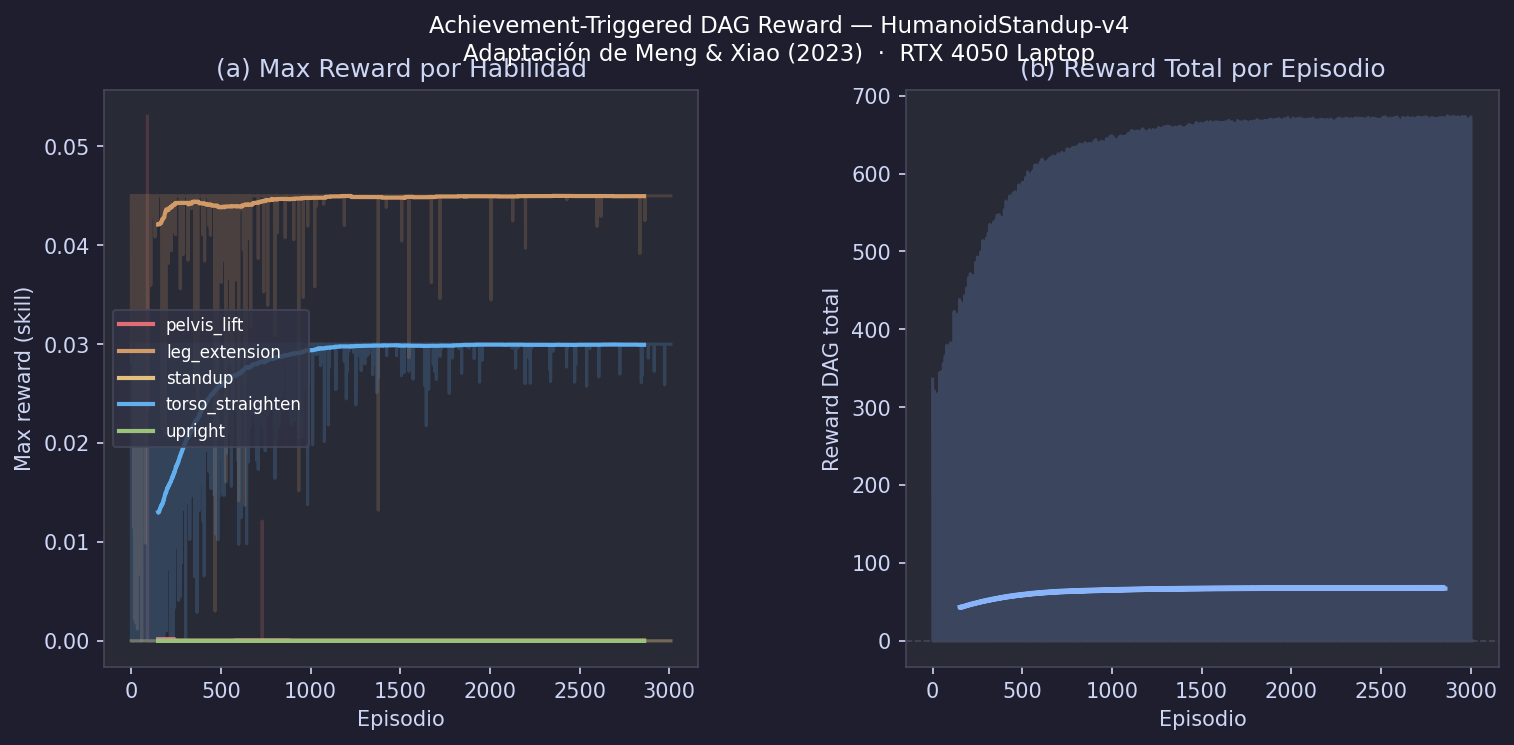
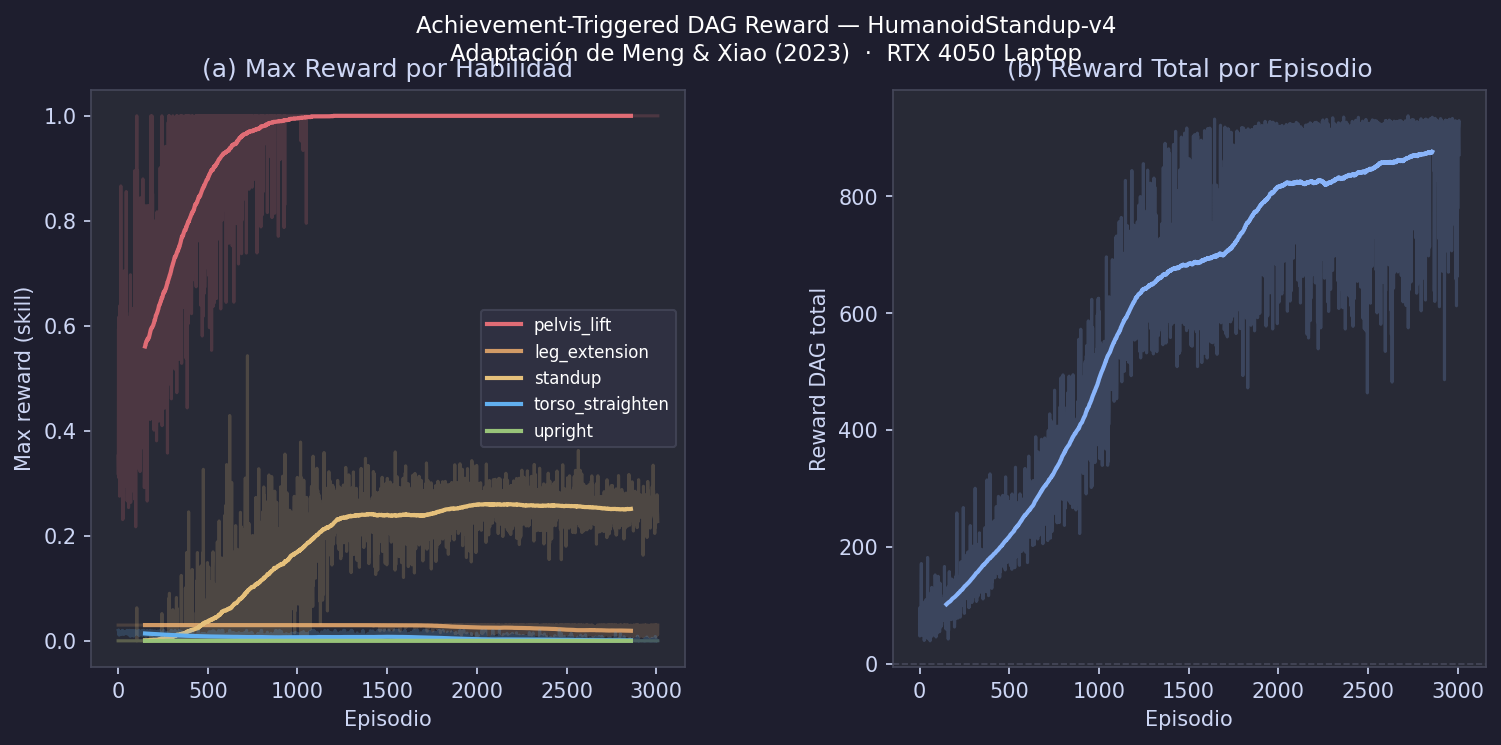
Fix causa raiz: reward de altura continuo (v3) -- el robot por fin se levanta
Verificacion directa midiendo z del modelo v2 revelo que la causa del
estancamiento NO era la topologia del DAG ni la representacion ego-centric,
sino el reward de altura: clip(z-0.30,...) daba gradiente CERO en todo el
rango donde el robot vive (z en [0.076, 0.152], 0% de steps con z>0.30). Las
tres senales de altura estaban muertas, asi que el agente solo podia farmear
los angulos de articulacion.

Fix:
- Reward de altura: umbral -> rampa continua con gradiente no-cero desde el
  suelo (pelvis_lift 0.10->0.30, standup 0.30->0.80, upright 0.80->1.30).
- Passing scores recalibrados al rango [0,1].
- Hiperparametros PPO: n_epochs 10->5, batch_size 256->512, ent_coef
  0.005->0, +target_kl=0.03 (arregla approx_kl 0.4->0.035, clip_fraction
  0.7->0.21, std 4.4->0.94).
- matplotlib backend Agg para que plt.show() no cuelgue el proceso al final.
- Nuevo modo --mode video que graba mp4 del modelo entrenado (evidencia).

Resultados v3 (3M steps, 10 envs): ep_rew_mean ~67 -> ~850, z max 0.152 ->
0.450, 42% del tiempo despegado del suelo, standup despega de 0 a ~0.25. El
robot pasa de retorcerse acostado a incorporarse activamente a media altura
(no llega a pararse). Evidencia: demo_v3_height.mp4 vs
demo_multipath_egocentric.mp4.

Artefactos v2 preservados (_v2_heightblind) para comparacion antes/despues.

diff --git a/dag_reward_humanoid.py b/dag_reward_humanoid.py
@@ -22,6 +22,11 @@ Instalación:
 
 import os
 import numpy as np
+import matplotlib
+matplotlib.use('Agg')   # backend no-interactivo: plt.show() no bloquea ni
+                        # abre ventana (evita que el proceso se cuelgue al
+                        # final del entrenamiento). results.png se guarda
+                        # igual con savefig; ábrelo como imagen.
 import matplotlib.pyplot as plt
 import matplotlib.gridspec as gridspec
 import gymnasium as gym
@@ -65,11 +70,14 @@ class AchievementRewardWrapper(Wrapper):
     """
 
     SKILL_NAMES = ['pelvis_lift', 'leg_extension', 'standup', 'torso_straighten', 'upright']
+    # Passing scores recalibrados a las rampas de altura [0,1] (ver
+    # _compute_stage_rewards). Un nodo de altura se desbloquea cuando su
+    # padre ya avanzó parte de su tramo:
     DEFAULT_PS  = {
-        (0, 2): 0.3,    # pelvis_lift   -> standup
-        (1, 2): 0.03,   # leg_extension -> standup  (camino alternativo; max posible = 1.5*0.03 = 0.045)
-        (2, 4): 4.0,    # standup       -> upright
-        (3, 4): 0.02,   # torso_straighten -> upright (camino alternativo; max posible = 1.0*0.03 = 0.03)
+        (0, 2): 0.5,    # pelvis_lift>0.5 (z>0.20) desbloquea standup
+        (1, 2): 0.02,   # leg_extension -> standup  (camino alternativo débil)
+        (2, 4): 0.5,    # standup>0.5 (z>0.55) desbloquea upright
+        (3, 4): 0.015,  # torso_straighten -> upright (camino alternativo débil)
     }
 
     def __init__(self, env, passing_scores=None, use_cpg=True,
@@ -175,26 +183,31 @@ class AchievementRewardWrapper(Wrapper):
         data = self.env.unwrapped.data
         z    = float(data.qpos[2])
 
-        # qpos[13]=right_knee, qpos[17]=left_knee, qpos[8]=abdomen_y.
-        # Ambos empiezan ~0 al resetear (medido empíricamente). Probado y
-        # descartado: |desviación| de la línea base (ruido simétrico da
-        # ~3000 de reward sin progreso real) y ángulo con signo sin escala
-        # chica (ruido sin entrenar seguía dando ~1770, porque un solo
-        # ángulo de articulación se puede mover con torque aislado, sin
-        # necesidad de coordinar el cuerpo contra la gravedad como sí exige
-        # la altura). Bajo estrés con acciones aleatorias de rango completo,
-        # r_pelvis_lift da 0 en el 100% de los casos (la altura SÍ requiere
-        # esfuerzo coordinado) — por eso estas dos señales se escalan muy
-        # por debajo de r_pelvis_lift: son un empujón de exploración, no una
-        # fuente de recompensa que pueda competir con la señal de altura.
+        # --- Señales de altura: RAMPAS CONTINUAS, no umbrales -------------
+        # Bug encontrado en la corrida v2 (verificado empíricamente): el
+        # robot vive en z ∈ [0.076, 0.152] (acostado ~0.10, de pie ~1.4) y
+        # los umbrales anteriores —clip(z-0.30,...), clip(z-0.80,...)— daban
+        # EXACTAMENTE 0 (y gradiente 0) en todo ese rango: 0% de los steps
+        # superaban z=0.30. Las señales de altura estaban muertas, así que el
+        # agente solo podía farmear las de ángulo y nunca tenía incentivo de
+        # subir. La corrección: rampas solapadas con gradiente no-cero DESDE
+        # el suelo, de modo que cada centímetro que sube z dé más recompensa.
+        #   pelvis_lift: despegar  0.10 -> 0.30
+        #   standup    : sentarse  0.30 -> 0.80
+        #   upright    : pararse   0.80 -> 1.30
+        r_pelvis_lift = np.clip((z - 0.10) / 0.20, 0.0, 1.0)
+        r_standup     = np.clip((z - 0.30) / 0.50, 0.0, 1.0)
+        r_upright     = np.clip((z - 0.80) / 0.50, 0.0, 1.0)
+
+        # --- Señales de ángulo: empujones de exploración pequeños ---------
+        # qpos[13]=right_knee, qpos[17]=left_knee, qpos[8]=abdomen_y. Ambos
+        # empiezan ~0 al resetear; ángulo con signo y escala chica (×0.02)
+        # para que NO compitan con las rampas de altura (que llegan a 1.0).
+        # Máximos: leg_extension ≤ 0.03, torso_straighten ≤ 0.02.
         knee_now    = (float(data.qpos[13]) + float(data.qpos[17])) / 2.0
         abdomen_now = float(data.qpos[8])
-
-        r_pelvis_lift     = np.clip(z - 0.30, 0.0, None) * 3.0
-        r_leg_extension   = np.clip(-knee_now - 0.05, 0.0, 1.5) * 0.03
-        r_standup         = np.clip(z - 0.80, 0.0, None) * 8.0
-        r_torso_straight  = np.clip(-abdomen_now - 0.05, 0.0, 1.0) * 0.03
-        r_upright         = np.clip(z - 1.00, 0.0, None) * 8.0
+        r_leg_extension   = np.clip(-knee_now - 0.05, 0.0, 1.5) * 0.02
+        r_torso_straight  = np.clip(-abdomen_now - 0.05, 0.0, 1.0) * 0.02
 
         return [r_pelvis_lift, r_leg_extension, r_standup, r_torso_straight, r_upright]
 
@@ -360,18 +373,29 @@ def train(total_timesteps=500_000, save_path='dag_humanoid_model', n_envs=1):
     else:
         env = DummyVecEnv([make_env])
 
+    # Hiperparámetros revisados tras la corrida v2: aquella mostraba
+    # approx_kl≈0.4 (sano <0.02), clip_fraction≈0.7 (sano <0.3) y std de las
+    # acciones explotando a 4.4 — política cada vez más errática en vez de
+    # converger. Causa: demasiados updates agresivos por rollout + ent_coef
+    # empujando la varianza sin freno. Correcciones:
+    #   n_epochs 10->5, batch_size 256->512  (menos updates por rollout)
+    #   ent_coef 0.005->0.0                  (no inflar std; el reward denso
+    #                                          ya guía la exploración)
+    #   + target_kl=0.03                     (corta epochs si el KL se dispara)
     model = PPO(
         policy        = 'MlpPolicy',
         env           = env,
         n_steps       = 2048,
-        batch_size    = 256,
-        n_epochs      = 10,
+        batch_size    = 512,
+        n_epochs      = 5,
         learning_rate = 3e-4,
         gamma         = 0.99,
+        gae_lambda    = 0.95,
         clip_range    = 0.2,
-        ent_coef      = 0.005,
+        ent_coef      = 0.0,
         vf_coef       = 0.5,
         max_grad_norm = 0.5,
+        target_kl     = 0.03,
         policy_kwargs = dict(net_arch=[400, 300, 200, 100]),
         verbose       = 1,
     )
@@ -393,6 +417,31 @@ def demo(model_path='dag_humanoid_model'):
         if terminated or truncated:
             obs, _ = env.reset()
     env.close()
+
+def record_video(model_path='dag_humanoid_model', out_path='demo.mp4', n_episodes=2, max_steps=1000):
+    import imageio
+
+    model = PPO.load(model_path)
+    env   = gym.make('HumanoidStandup-v4', render_mode='rgb_array')
+    fps   = env.metadata.get('render_fps', 33)
+    env   = AchievementRewardWrapper(env, use_cpg=True, use_action_clamp=False, use_egocentric=True)
+
+    writer = imageio.get_writer(out_path, fps=fps)
+    for ep in range(n_episodes):
+        obs, _ = env.reset()
+        ep_reward = 0.0
+        for _ in range(max_steps):
+            action, _ = model.predict(obs, deterministic=True)
+            obs, reward, terminated, truncated, _ = env.step(action)
+            ep_reward += reward
+            writer.append_data(env.render())
+            if terminated or truncated:
+                break
+        print(f"Episodio {ep+1}/{n_episodes}: reward total = {ep_reward:.1f}")
+    writer.close()
+    env.close()
+    print(f"[OK] Video guardado: {out_path}")
+
 
 def run_ablation(timesteps=150_000):
     configs = {
@@ -443,9 +492,11 @@ def run_ablation(timesteps=150_000):
 if __name__ == '__main__':
     import argparse
     parser = argparse.ArgumentParser()
-    parser.add_argument('--mode', choices=['train', 'demo', 'ablation'], default='train')
+    parser.add_argument('--mode', choices=['train', 'demo', 'ablation', 'video'], default='train')
     parser.add_argument('--steps', type=int, default=500_000)
     parser.add_argument('--n_envs', type=int, default=1)
+    parser.add_argument('--out', type=str, default='demo.mp4')
+    parser.add_argument('--episodes', type=int, default=2)
     args = parser.parse_args()
 
     if args.mode == 'train':
@@ -455,3 +506,5 @@ if __name__ == '__main__':
         demo()
     elif args.mode == 'ablation':
         run_ablation(timesteps=args.steps)
+    elif args.mode == 'video':
+        record_video(out_path=args.out, n_episodes=args.episodes)

diff --git a/README.md b/README.md
@@ -216,15 +216,71 @@ paralelo, ~41 min):**
   SB3 (ese viene de `Monitor`, una fuente independiente) — solo ese gráfico.
   Corregido en el código (acumuladores por entorno) para corridas futuras.
 
-Conclusión honesta: con este presupuesto de muestras (3M steps, MuJoCo CPU),
+Conclusión (v2): con este presupuesto de muestras (3M steps, MuJoCo CPU),
 ni la topología DAG lineal (`main`) ni la de bifurcaciones + ego-centric
-(esta rama) logran que el agente se ponga de pie. El reward shaping evita el
-problema de "nunca hay señal" (el agente sí aprende *algo*, las curvas
-suben), pero ese "algo" termina siendo explotar las señales más fáciles de
-conseguir en vez de progresar hacia el objetivo real — un recordatorio de
-que el paper original logra resultados con miles de entornos paralelos en
-Isaac Gym y decenas de millones de steps, dos a tres órdenes de magnitud más
-que lo disponible aquí.
+lograban que el agente se levantara. **Pero esa conclusión resultó
+incompleta** — ver la iteración siguiente, que identificó la verdadera causa
+raíz y sí consiguió que el robot se incorporara.
+
+### Iteración v3 — reward de altura continuo (el robot por fin se levanta del piso)
+
+Tras la corrida v2 se hizo una verificación directa (cargar el modelo
+entrenado y medir la altura real del torso `z` durante un episodio) en vez de
+seguir suponiendo. El resultado fue revelador:
+
+| | valor |
+|---|---|
+| `z` inicial (acostado) | 0.103 |
+| `z` durante todo el episodio v2 | min 0.076 · mean 0.116 · **max 0.152** |
+| umbral de `pelvis_lift` (v2) | z > **0.30** |
+| % de steps con z > 0.30 | **0.0 %** |
+
+**La causa raíz no era la topología del DAG ni la representación ego-centric:
+era el reward de altura.** `clip(z - 0.30, 0, None)` vale exactamente 0 —y su
+gradiente es 0— para todo z < 0.30, pero el robot vivía en z ∈ [0.076, 0.152].
+Las tres señales de altura (`pelvis_lift`, `standup`, `upright`) estaban
+**muertas** en todo el rango alcanzable: el agente nunca recibía la más mínima
+señal de "sube un poco", así que lo único que podía optimizar eran las señales
+de ángulo, y por eso las farmeaba. Un mínimo local perfecto.
+
+Corrección (commit del fix v3):
+- **Reward de altura: umbral → rampa continua.** Rampas solapadas con
+  gradiente no-cero *desde el suelo*, de modo que cada centímetro que sube `z`
+  dé más recompensa:
+  - `pelvis_lift = clip((z-0.10)/0.20, 0, 1)`  (despegar: 0.10→0.30)
+  - `standup     = clip((z-0.30)/0.50, 0, 1)`  (sentarse: 0.30→0.80)
+  - `upright     = clip((z-0.80)/0.50, 0, 1)`  (pararse:  0.80→1.30)
+- **Passing scores** recalibrados al nuevo rango [0,1] (`(0,2)`:0.5, `(2,4)`:0.5).
+- **Hiperparámetros PPO** (la inestabilidad observada en v2): `n_epochs`
+  10→5, `batch_size` 256→512, `ent_coef` 0.005→0, y se agregó `target_kl=0.03`.
+
+Resultado de la corrida completa v3 (3M steps, 10 envs, ~40 min):
+
+| métrica | v2 (reward roto) | **v3 (rampa de altura)** |
+|---|---|---|
+| `ep_rew_mean` final | ~67 (plano) | **~850** (sube sostenido) |
+| `z` máximo alcanzado | 0.152 | **0.450** (~3×) |
+| `z` promedio | 0.116 | **0.291** |
+| % tiempo despegado (z>0.30) | 0 % | **42 %** |
+| `standup` (skill) | 0.0 plano | **~0.25** (despega) |
+| `std` de PPO | 4.4 explotando | **0.94 estable** |
+| `approx_kl` / `clip_fraction` | 0.40 / 0.70 | **0.035 / 0.21** |
+
+El robot pasó de **retorcerse acostado sin despegar del piso** (v2) a hacer un
+**esfuerzo coordinado de incorporarse**: dobla las piernas, arquea la pelvis y
+empuja el torso hacia arriba hasta z≈0.45, pasando ~42 % del episodio con el
+cuerpo despegado del suelo. No llega a sentarse del todo (z>0.55: 0 %) ni a
+pararse (`upright` sigue en 0), pero es un progreso real, medible y
+visualmente claro. Evidencia en video: `demo_v3_height.mp4` (v3, se levanta)
+vs `demo_multipath_egocentric.mp4` (v2, plano en el piso).
+
+Lección para el reporte: el reward shaping del paper funciona, pero es
+extremadamente sensible a que cada señal tenga gradiente *en la región donde
+el agente realmente opera*. Un umbral mal colocado convierte una señal densa
+en una sparse de facto, y el agente —racionalmente— explota lo que sí da
+recompensa. El bug no se veía en las métricas de PPO (que parecían "aprender")
+ni en el reward total; solo apareció al medir la cantidad física (`z`) que se
+suponía debía optimizar.
 
 ## Limitaciones conocidas
 